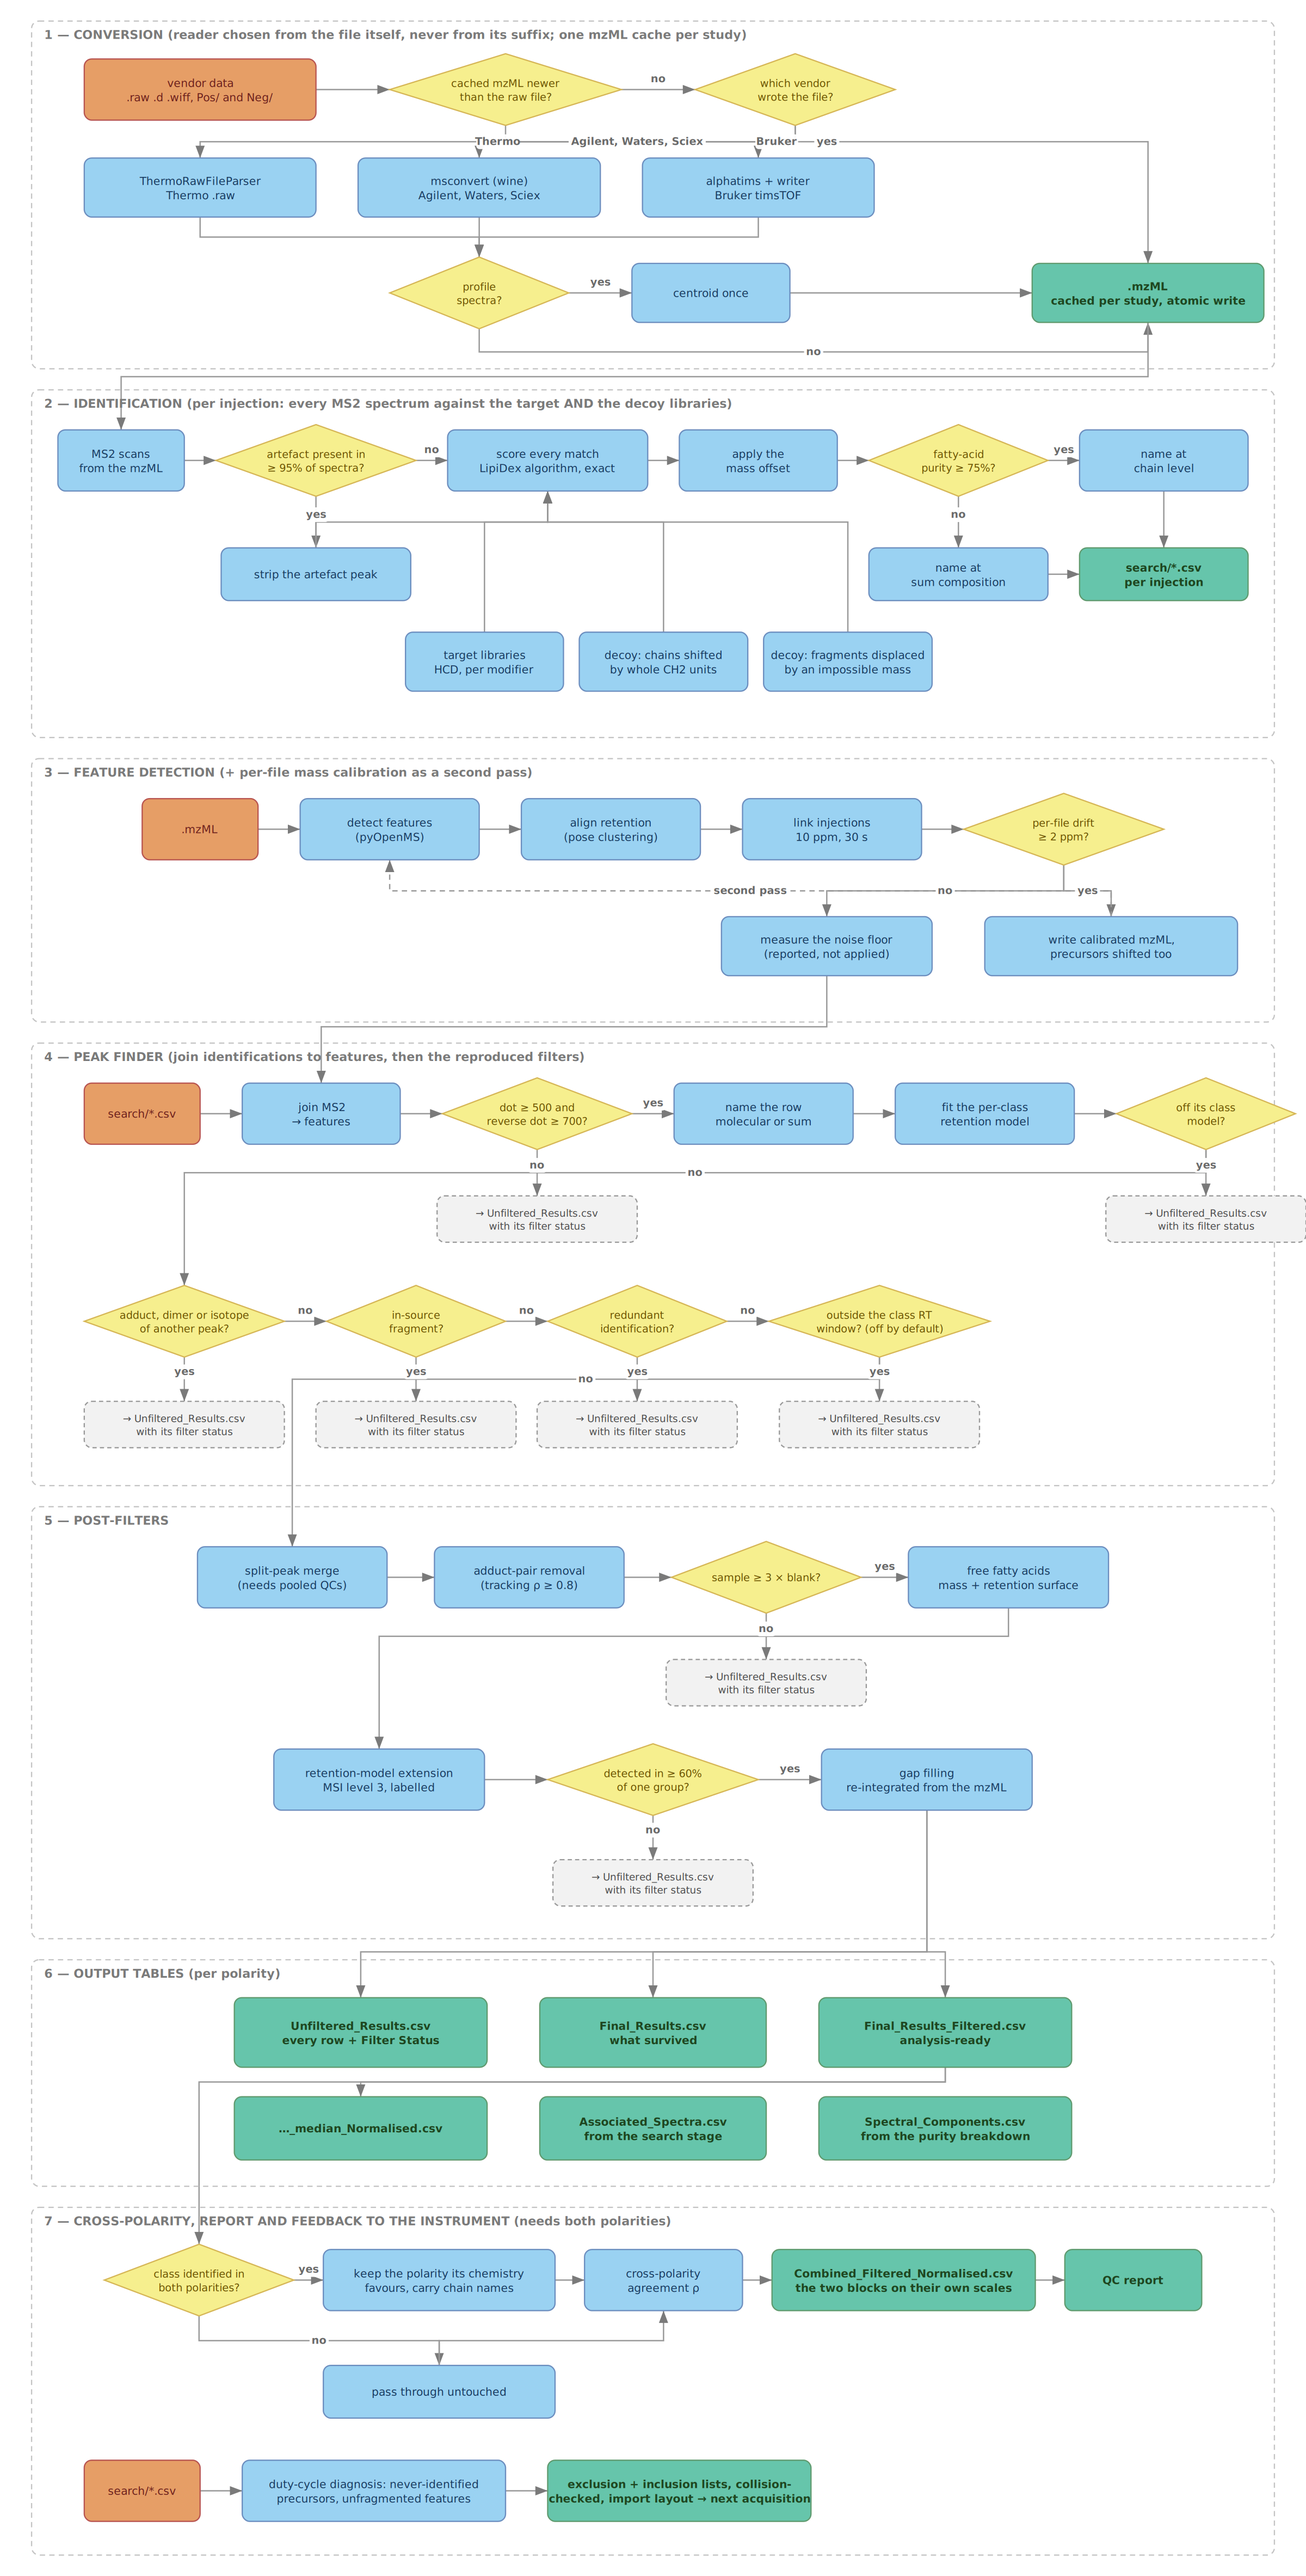
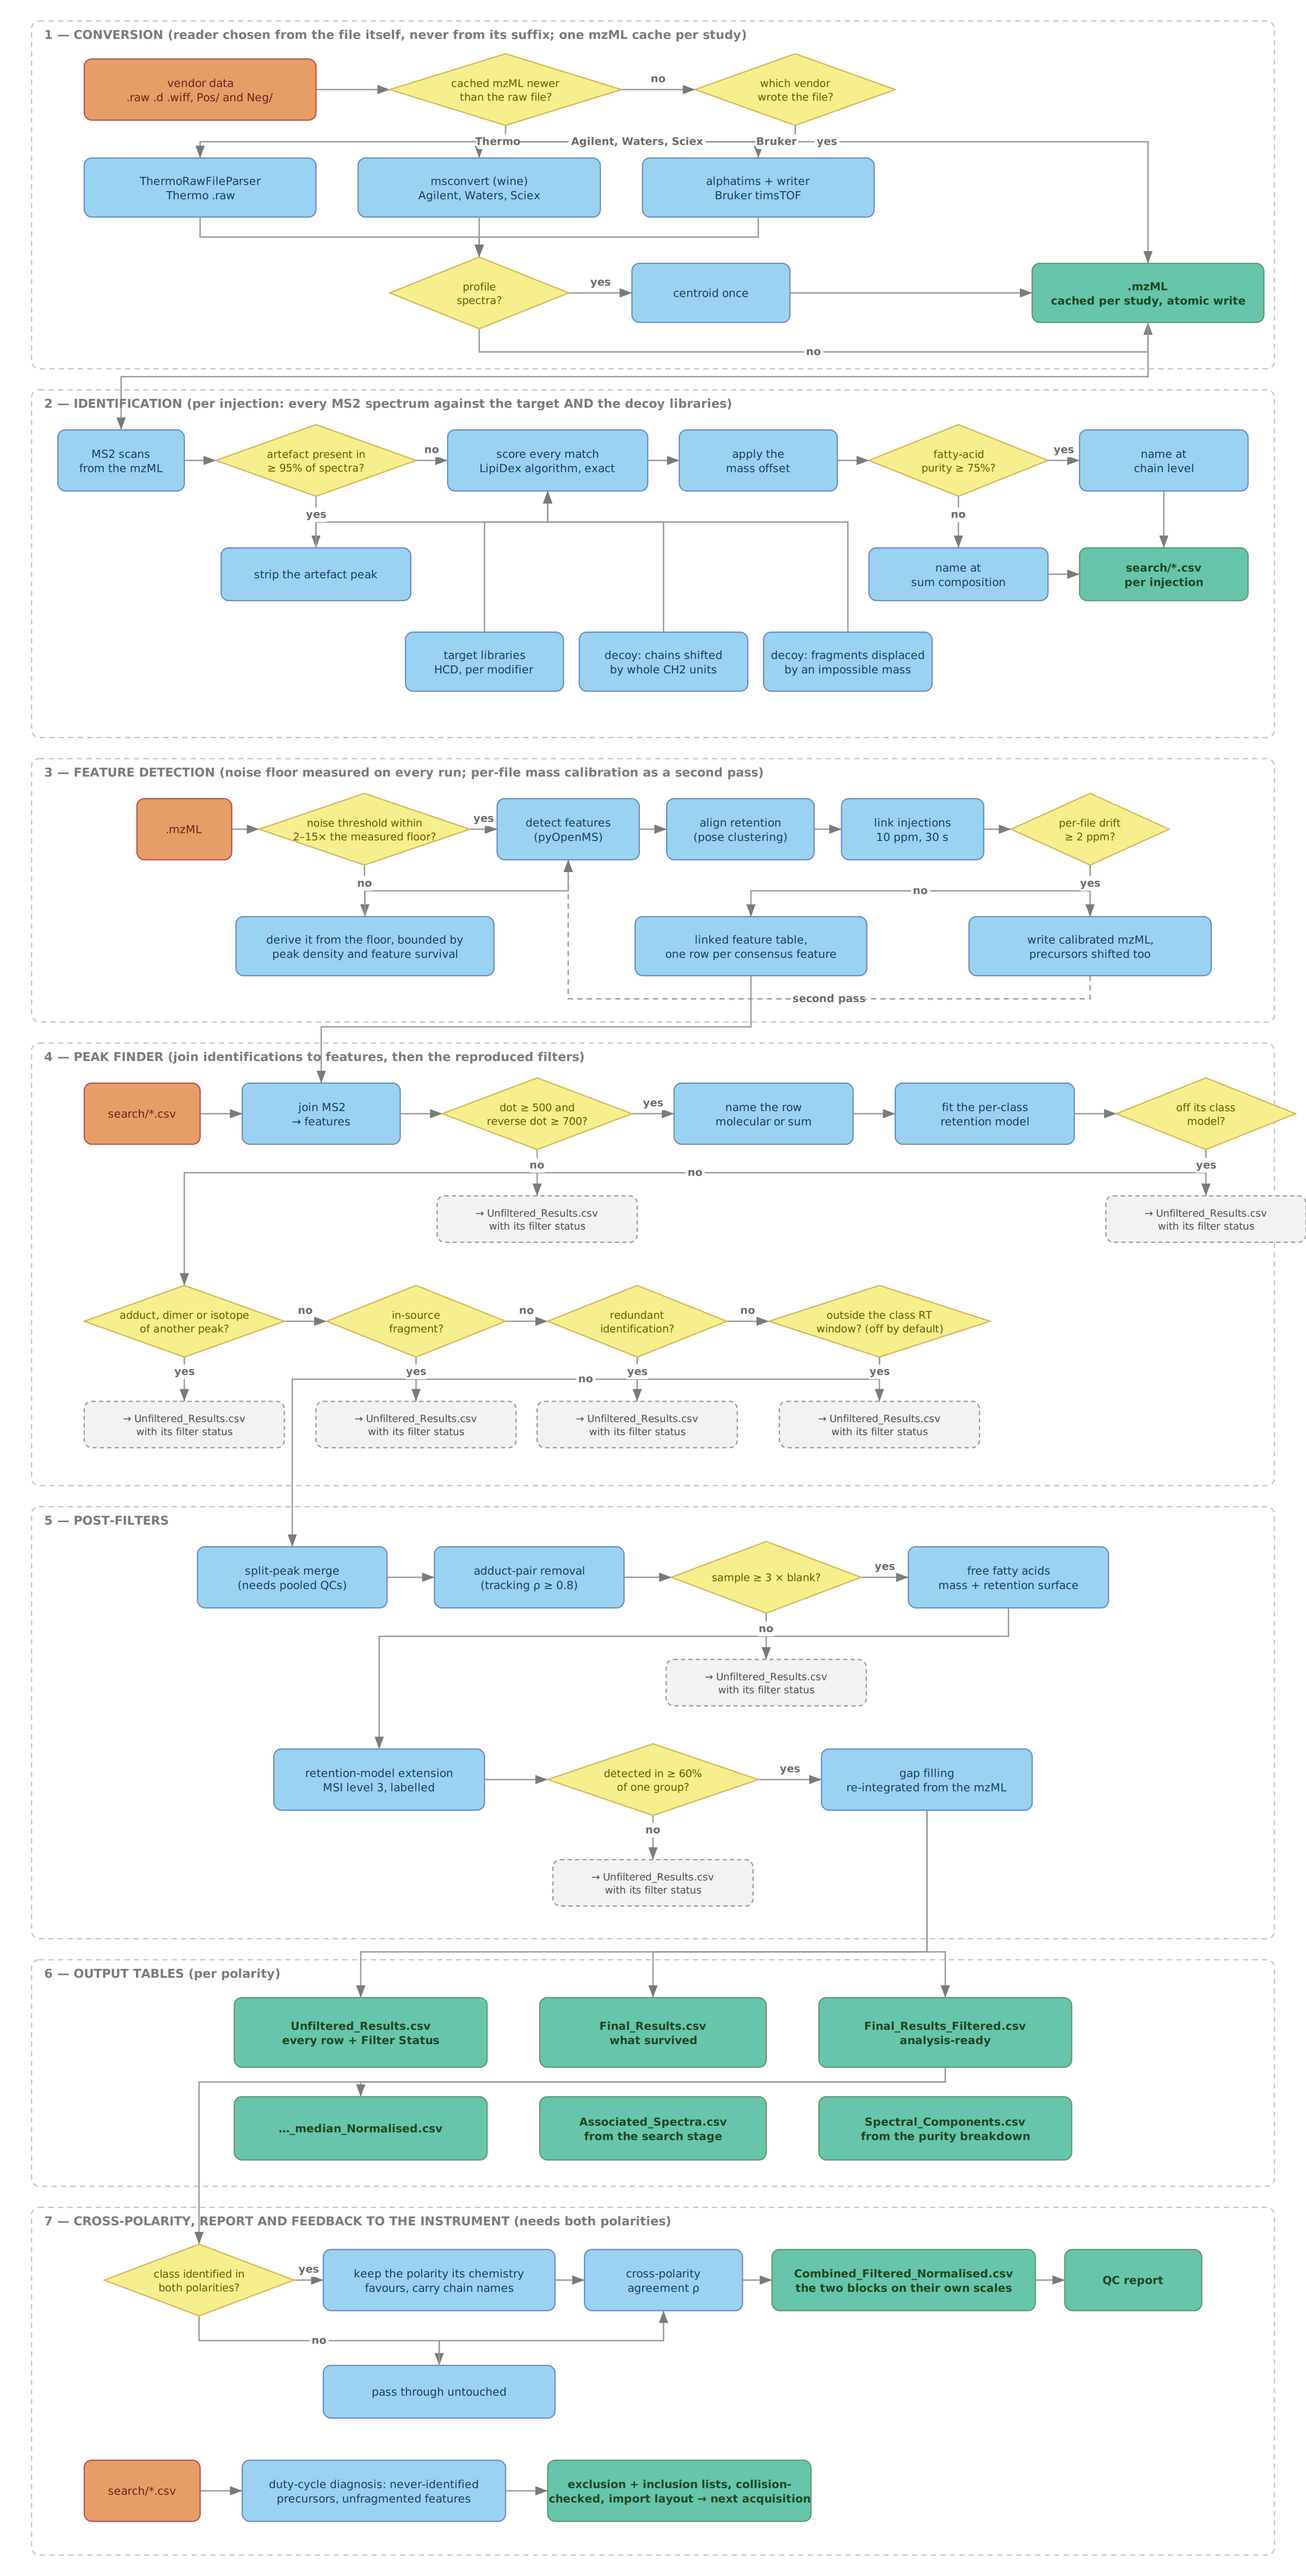
paper: Figure S1 band 3 shows the noise-floor decision

Changed region(s): [[0.1562, 0.2796, 0.875, 0.4038], [0.9062, 0.3417, 0.9688, 0.3728], [0.0938, 0.3107, 0.125, 0.3417]]

diff --git a/paper/figures/figS1/schematic_full.py b/paper/figures/figS1/schematic_full.py
@@ -51,14 +51,17 @@ edge(tgt, srch); edge(dc1, srch); edge(dc2, srch)
 edge(srch, offs); edge(offs, pur); edge(pur, chain, "yes"); edge(pur, sumc, "no"); edge(chain, sres); edge(sumc, sres)
 
 # ── 3 feature detection ──────────────────────────────────────────────────────────────────────
-band(720, 250, "3 — FEATURE DETECTION   (+ per-file mass calibration as a second pass)")
-mz3, feat, align, link, drift = row(758, 58, [(110, ".mzML"), (170, "detect features\n(pyOpenMS)"), (170, "align retention\n(pose clustering)"),
-                                              (170, "link injections\n10 ppm, 30 s"), (190, "per-file drift\n≥ 2 ppm?")], "proc", gap=40)
-CELLS[mz3]["kind"] = "input"; dec(drift, 753)
-noise = box(CELLS[link]["x"] - 20, 870, 200, 56, "measure the noise floor\n(reported, not applied)", "proc")
-recal = box(CELLS[drift]["x"] + 20, 870, 240, 56, "write calibrated mzML,\nprecursors shifted too", "proc")
-edge(mz3, feat); edge(feat, align); edge(align, link); edge(link, drift)
-edge(drift, recal, "yes"); edge(recal, feat, "second pass", True); edge(drift, noise, "no")
+band(720, 250, "3 — FEATURE DETECTION   (noise floor measured on every run; per-file mass calibration as a second pass)")
+mz3, noiseq, feat, align, link, drift = row(758, 58, [(90, ".mzML"), (200, "noise threshold within\n2–15× the measured floor?"),
+                                                      (135, "detect features\n(pyOpenMS)"), (140, "align retention\n(pose clustering)"),
+                                                      (135, "link injections\n10 ppm, 30 s"), (150, "per-file drift\n≥ 2 ppm?")], "proc", gap=26)
+CELLS[mz3]["kind"] = "input"; dec(noiseq, 753); dec(drift, 753)
+derive = box(CELLS[noiseq]["x"] + 100 - 122, 870, 245, 56, "derive it from the floor, bounded by\npeak density and feature survival", "proc")
+recal = box(CELLS[drift]["x"] - 40, 870, 230, 56, "write calibrated mzML,\nprecursors shifted too", "proc")
+feats = box(CELLS[align]["x"] - 30, 870, 220, 56, "linked feature table,\none row per consensus feature", "proc")
+edge(mz3, noiseq); edge(noiseq, feat, "yes"); edge(noiseq, derive, "no"); edge(derive, feat)
+edge(feat, align); edge(align, link); edge(link, drift)
+edge(drift, recal, "yes"); edge(recal, feat, "second pass", True, via="under"); edge(drift, feats, "no")
 
 # ── 4 peak finder ────────────────────────────────────────────────────────────────────────────
 band(990, 420, "4 — PEAK FINDER   (join identifications to features, then the reproduced filters)")
@@ -74,7 +77,7 @@ add, ins, red, win = row(1225, 58, [(190, "adduct, dimer or isotope\nof another 
 for d in (add, ins, red, win):
     dec(d, 1220)
 k4c = sink(add, 1330); k4d = sink(ins, 1330); k4e = sink(red, 1330); k4f = sink(win, 1330)
-edge(noise, join); edge(s4, join); edge(join, thr); edge(thr, name, "yes"); edge(thr, k4a, "no")
+edge(feats, join); edge(s4, join); edge(join, thr); edge(thr, name, "yes"); edge(thr, k4a, "no")
 edge(name, rtm); edge(rtm, offm); edge(offm, k4b, "yes"); edge(offm, add, "no")
 edge(add, ins, "no"); edge(add, k4c, "yes"); edge(ins, red, "no"); edge(ins, k4d, "yes")
 edge(red, win, "no"); edge(red, k4e, "yes"); edge(win, k4f, "yes")
